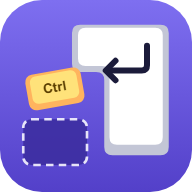
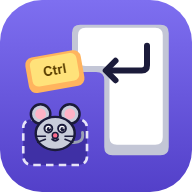
Rename to Мешканці клавіатури; residents shout the key name
A resident first exclaims its own phrase with its sound, then names
the key in the original (Backspace!, Ctrl!) in the bubble and aloud
via an English speech voice with a per-character timbre. The folder,
storage keys and cache are renamed to keyboard-residents-kids, and
the icon gets a mouse peeking out of the empty slot.

Changed region(s): [[0.125, 0.25, 0.4375, 0.8125]]

diff --git a/index.html b/index.html
@@ -3,7 +3,7 @@
 <head>
 <meta charset="UTF-8">
 <meta name="viewport" content="width=device-width, initial-scale=1.0">
-<title>Клавіші на місця · Інформатика в 131-й</title>
+<title>Мешканці клавіатури · Інформатика в 131-й</title>
 <link href="fonts/fonts.css" rel="stylesheet">   <!-- локальні шрифти: гра працює без інтернету -->
 <link rel="manifest" href="manifest.webmanifest">   <!-- гру можна встановити як програму -->
 <link rel="icon" type="image/png" href="icons/icon-192.png">
@@ -184,6 +184,9 @@
   @keyframes glow{from{filter:drop-shadow(0 0 2px #FFF3B0);} to{filter:drop-shadow(0 0 12px #FFD84D);}}
   .say{position:absolute; left:50%; bottom:100%; margin-bottom:6px; transform:translateX(calc(-50% + var(--sh, 0px))); background:#fff; border:2px solid #1B1B3A; border-radius:12px; padding:1px 10px;
     font-family:'Baloo 2',sans-serif; font-weight:700; font-size:15px; line-height:1.35; white-space:nowrap; color:#1B1B3A; box-shadow:0 3px 0 rgba(27,27,58,.15); opacity:0;}
+  .say .en{display:none; font-weight:800; font-size:21px; line-height:1.2; color:#5340C9;}
+  .say.named .ph{display:none;}
+  .say.named .en{display:block; animation:beat .3s ease;}
   .say::after{content:''; position:absolute; left:50%; top:100%; margin-left:calc(-6px - var(--sh, 0px)); border:6px solid transparent; border-top-color:#1B1B3A;}
 
   /* ---------- Майстерня: скарбничка й теми клавіатури ---------- */
@@ -295,7 +298,7 @@
 
 <div class="topbar"><div class="topbar-inner">
   <a class="back-link" href="https://cyrilreyda.github.io/" data-ui>← Всі ігри</a>
-  <span class="game-title">Клавіші на місця</span>
+  <span class="game-title">Мешканці клавіатури</span>
   <button class="top-btn player-btn" id="playerBtn" type="button" title="Гравці на цьому комп'ютері" data-ui><span class="pb-ico" id="playerIco"></span><span class="long" id="playerName">Гравець</span></button>
   <a class="top-btn" href="guide/index.html" title="Інструкція для учнів і вчителів" data-ui>❓<span class="long"> Як грати</span></a>
   <button class="top-btn fs-btn" id="fsBtn" type="button" title="На весь екран (F11)" aria-label="На весь екран (F11)" data-ui hidden>
@@ -311,8 +314,8 @@
     <div class="intro">
       <span id="introKey"></span>
       <div>
-        <h1>Клавіші на місця</h1>
-        <p>Службові клавіші розгубилися! <span class="hl">Перетягни кожну</span> з лотка на її місце на клавіатурі. Пробіл і Enter упізнаєш за формою, а решту — за тим, що стоїть поруч. А під клавішами, поки їх не було, хтось оселився…</p>
+        <h1>Мешканці клавіатури</h1>
+        <p>Службові клавіші розгубилися, а на їхніх місцях оселилися мешканці! <span class="hl">Перетягни кожну клавішу</span> з лотка на її місце — і мешканець вистрибне й вигукне, як вона називається. Пробіл і Enter упізнаєш за формою, а решту — за тим, що стоїть поруч.</p>
       </div>
     </div>
     <h3 class="levels-title">Обери рівень</h3>
@@ -323,7 +326,7 @@
       <div class="g-row"><h4>Клавіатура</h4><div class="picks" id="themePicks"></div></div>
     </div>
     <div class="stickers-box">
-      <div class="garage-head"><h3>Мешканці клавіатури</h3><span class="next-goal" id="budCount"></span></div>
+      <div class="garage-head"><h3>Хто жив під клавішами</h3><span class="next-goal" id="budCount"></span></div>
       <div class="buds" id="buds"></div>
     </div>
     <div class="stickers-box">
@@ -423,7 +426,7 @@
 // у лотку більше клавіш водночас, коротша норма часу, менше дозволених помилок, підказка пізніше.
 // У встановленій грі (PWA) адреси не видно, тож вчитель перемикає режим ще й Ctrl+Alt+B — це запам'ятовується на пристрої.
 // ?boost в адресі діє лише на цей запуск: один комп'ютер може відкривати гру різним класам різними посиланнями
-const BOOST_KEY = 'key-places-kids-boost';
+const BOOST_KEY = 'keyboard-residents-kids-boost';
 let boostSaved = false;
 try{ boostSaved = localStorage.getItem(BOOST_KEY) === 'on'; }catch(e){}
 const BOOST = boostSaved || new URLSearchParams(location.search).has('boost');
@@ -473,6 +476,13 @@ const SERVICE = {
   down:  { name:'Стрілка вниз',   label:'↓',            what:'переносить курсор на рядок нижче' },
   left:  { name:'Стрілка вліво',  label:'←',            what:'переносить курсор на один знак ліворуч' },
   right: { name:'Стрілка вправо', label:'→',            what:'переносить курсор на один знак праворуч' },
+};
+
+// Назва клавіші в оригіналі: [як пишуть, як вимовити англійською]. Її вигукує мешканець, що вистрибує з-під клавіші
+const EN = {
+  esc:['Esc', 'Escape'], tab:['Tab'], caps:['Caps Lock'], shift:['Shift'], ctrl:['Ctrl', 'Control'], win:['Windows'], alt:['Alt'],
+  space:['Space'], menu:['Menu'], enter:['Enter'], bksp:['Backspace'], del:['Delete'], ins:['Insert'], home:['Home'], end:['End'],
+  pgup:['Page Up'], pgdn:['Page Down'], prt:['Print Screen'], up:['Arrow Up'], down:['Arrow Down'], left:['Arrow Left'], right:['Arrow Right'],
 };
 
 /* ================= Розкладка клавіатури ================= */
@@ -559,7 +569,7 @@ const STICKERS = [
   { id:'bank',   ico:'💰', name:'Повна скарбничка',   how:'Зібрати в скарбничку 600 балів',                                        count:p=>p.total, need:600 },
 ];
 const stickerProgress = st=>st.count && !store.stickers[st.id] ? Math.min(st.count(store) || 0, st.need) : 0;
-const STORE_KEY = BOOST ? 'key-places-kids-boost-v1' : 'key-places-kids-v1';
+const STORE_KEY = BOOST ? 'keyboard-residents-kids-boost-v1' : 'keyboard-residents-kids-v1';
 
 /* ================= Збереження ================= */
 // Гравці на цьому пристрої: { current, players:{ ім'я: профіль } }. У кожного свої рекорди, скарбничка, тема й наліпки.
@@ -583,7 +593,7 @@ function loadPlayer(name){
 /* ================= Звук ================= */
 // Звук увімкнено за замовчуванням. Учням перемикача не показуємо: вчитель вимикає звук адресою ?zvuk=tykho
 // (вмикає назад ?zvuk=klas) або Ctrl+Alt+Z — як у «Клавіатурних перегонах». Режим запам'ятовується на цьому пристрої
-const SOUND_KEY = 'key-places-kids-sound';
+const SOUND_KEY = 'keyboard-residents-kids-sound';
 let soundOn = true;
 try{ soundOn = localStorage.getItem(SOUND_KEY) !== 'off'; }catch(e){}
 function setSound(on){
@@ -677,6 +687,29 @@ const VOICE = {
   magic:  d=>sparkle(d),
 };
 
+// Мешканець вигукує назву клавіші англійською голосом, який є в системі (у Windows — без інтернету).
+// Тембр залежить від мешканця: [висота, швидкість] за полем voice. Немає англійського голосу — лише його звук із VOICE
+let enVoice = null;
+function pickVoice(){
+  try{
+    const list = speechSynthesis.getVoices().filter(v=>/^en([-_]|$)/i.test(v.lang));
+    enVoice = list.find(v=>v.localService && /US/i.test(v.lang)) || list.find(v=>v.localService) || list[0] || null;
+  }catch(e){}
+}
+if('speechSynthesis' in window){ pickVoice(); speechSynthesis.addEventListener?.('voiceschanged', pickVoice); }
+const TIMBRE = { squeak:[1.9, 1.15], chirp:[1.8, 1.15], buzz:[1.3, 1.1], croak:[.7, 1], meow:[1.5, 1], beep:[.4, .9], boo:[.6, .85],
+                 slow:[.8, .6], sneeze:[1.4, 1.1], roar:[.2, .85], bloop:[1.2, 1], magic:[1.6, .95] };
+function shout(text, voice){
+  if(!soundOn || !enVoice) return;
+  try{
+    speechSynthesis.cancel();   // попередній ще не договорив — нехай поступиться новому
+    const u = new SpeechSynthesisUtterance(text);
+    u.voice = enVoice; u.lang = enVoice.lang;
+    [u.pitch, u.rate] = TIMBRE[voice] || [1, 1];
+    speechSynthesis.speak(u);
+  }catch(e){}
+}
+
 /* ================= Допоміжне ================= */
 const $ = id=>document.getElementById(id);
 const fmtTime = s=>`${Math.floor(s / 60)}:${String(Math.floor(s % 60)).padStart(2, '0')}`;
@@ -769,11 +802,11 @@ function keyboardHTML({ full = true, empty = [], mini = false } = {}){
 }
 
 /* ================= Мешканці клавіатури ================= */
-// Під кожною порожньою клавішею хтось жив. Коли клавіша стає на місце, мешканець вистрибує з-під неї, щось каже й тікає.
-// say — що каже; voice — голос (VOICE); rare — рідкісний гість: світиться, з'являється з імовірністю RARE.
+// Під кожною порожньою клавішею хтось жив. Коли клавіша стає на місце, мешканець вистрибує з-під неї,
+// вигукує щось своє, потім називає клавішу англійською (EN) і тікає.
+// say — що вигукує спершу; voice — голос (VOICE); rare — рідкісний гість: світиться, з'являється з імовірністю RARE.
 // Малюнки — SVG 64×64, ноги внизу
 const RARE = .025;
-const SAY_ANY = ['Ой!', 'Моє місце!', 'Та йду вже, йду!', 'Хоп!', 'Звільняю!', 'Ого, клавіша!', 'Бувайте!'];   // іноді замість своєї фрази
 const BUDDIES = [
   { id:'mouse',    name:'Мишка',       say:'Пі-пі! Я ж тут жила!',        voice:'squeak' },
   { id:'bug',      name:'Жучок',       say:'Жжж! Переїжджаю!',            voice:'buzz' },
@@ -968,7 +1001,7 @@ $('themePicks').addEventListener('click', e=>{
 // Альбом мешканців: кого вже бачив — кольоровий, решта — тінь зі знаком питання
 function renderBuddies(){
   const met = BUDDIES.filter(b=>store.met[b.id]).length;
-  $('budCount').textContent = `${met} з ${BUDDIES.length} · кожна клавіша на місці виганяє когось із-під себе`;
+  $('budCount').textContent = `${met} з ${BUDDIES.length}`;
   $('buds').innerHTML = BUDDIES.map(b=>{
     const n = store.met[b.id] || 0;
     return `<span class="bud${n ? '' : ' no'}${b.rare ? ' rare' : ''}" data-bud="${b.id}">${buddySVG(b.id)}<span>${n ? b.name : b.rare ? '✨ ?' : '?'}</span>${n ? `<small>×${n}</small>` : ''}</span>`;
@@ -1305,13 +1338,21 @@ function nextBuddy(){
   }
   return G.lastBuddy = G.bag.shift();
 }
-// З-під клавіші вистрибує мешканець: з'являється, озирається, каже щось і зістрибує вбік з клавіатури.
+// З-під клавіші вистрибує мешканець: з'являється, вигукує своє (SAY_MS), називає клавішу (NAME_MS) і зістрибує вбік з клавіатури.
 // З-під Пробілу — ціла компанія з трьох
 function jumpOut(slot, k){
   const n = k.kind === 'space' ? 3 : 1, g = G;
-  for(let i = 0; i < n; i++) G.timers.push(setTimeout(()=>{ if(G === g) oneBuddy(slot, (i - (n - 1) / 2) * 1.9, i === 0); }, i * 140));
+  for(let i = 0; i < n; i++) G.timers.push(setTimeout(()=>{ if(G === g) oneBuddy(slot, k, (i - (n - 1) / 2) * 1.9, i === 0); }, i * 140));
 }
-function oneBuddy(slot, shiftU, talk){
+const SAY_MS = 1000, NAME_MS = 1000;   // скільки видно фразу мешканця й назву клавіші
+// Хмарка біля краю екрана зсувається всередину, а її хвостик і далі показує на мешканця
+function keepInside(sb){
+  sb.style.setProperty('--sh', '0px');
+  const br = sb.getBoundingClientRect(), edge = document.documentElement.clientWidth - 8;
+  const sh = br.left < 8 ? 8 - br.left : br.right > edge ? edge - br.right : 0;
+  sb.style.setProperty('--sh', sh + 'px');
+}
+function oneBuddy(slot, k, shiftU, talk){
   const b = nextBuddy();
   const first = !store.met[b.id];
   store.met[b.id] = (store.met[b.id] || 0) + 1;   // зберігаємо одразу: знайомство лишається, навіть якщо вийти посеред гри
@@ -1326,31 +1367,38 @@ function oneBuddy(slot, shiftU, talk){
   const el = document.createElement('div');
   el.className = 'buddy' + (b.rare ? ' rare' : '');
   el.style.cssText = `--bs:${size}px; left:${cx - size / 2}px; top:${cy - size}px`;
-  const say = !b.rare && Math.random() < .35 ? SAY_ANY[Math.floor(Math.random() * SAY_ANY.length)] : b.say;
-  el.innerHTML = (talk ? `<div class="say">${esc(say)}</div>` : '') + buddySVG(b.id);
+  const [en, spoken = en] = EN[k.kind];
+  el.innerHTML = (talk ? `<div class="say"><span class="ph">${esc(b.say)}</span><span class="en">${esc(en)}!</span></div>` : '') + buddySVG(b.id);
   play.appendChild(el);
-  // Хмарка біля краю екрана зсувається всередину, а її хвостик і далі показує на мешканця
   const sb = el.querySelector('.say');
-  if(sb){
-    const br = sb.getBoundingClientRect(), edge = document.documentElement.clientWidth - 8;
-    const sh = br.left < 8 ? 8 - br.left : br.right > edge ? edge - br.right : 0;
-    sb.style.setProperty('--sh', sh + 'px');
-  }
+  if(sb) keepInside(sb);
   const T =(x, y, rot = 0, sx = 1, sy = 1)=>`translate(${x}px, ${y}px) rotate(${rot}deg) scale(${sx}, ${sy})`;
   const anim = el.animate([
     { transform:T(0, size * .5, 0, .2, .2), opacity:0 },
-    { transform:T(0, -size * .35, 0, 1.08, .92), opacity:1, offset:.12 },
-    { transform:T(0, 0), offset:.2 },
-    { transform:T(0, 0, -7 * dir), offset:.36 },
-    { transform:T(0, 0, 7 * dir), offset:.5 },
-    { transform:T(0, 2, 0, 1.1, .85), offset:.58 },
-    { transform:T(dx * .55, -up, 18 * dir), offset:.75 },
+    { transform:T(0, -size * .35, 0, 1.08, .92), opacity:1, offset:.08 },
+    { transform:T(0, 0), offset:.13 },
+    { transform:T(0, 0, -7 * dir), offset:.25 },
+    { transform:T(0, 0, 7 * dir), offset:.37 },
+    { transform:T(0, -size * .12, 0, 1.05, .95), offset:.45 },   // підскакує, коли називає клавішу
+    { transform:T(0, 0, -4 * dir), offset:.55 },
+    { transform:T(0, 0), offset:.68 },
+    { transform:T(0, 2, 0, 1.1, .85), offset:.74 },
+    { transform:T(dx * .55, -up, 18 * dir), offset:.86 },
     { transform:T(dx, 150, 55 * dir), opacity:0 },
-  ], { duration:2100, easing:'ease-in-out', fill:'forwards' });
+  ], { duration:2900, easing:'ease-in-out', fill:'forwards' });
   anim.onfinish = ()=>el.remove();
-  el.querySelector('.say')?.animate([{ opacity:0 }, { opacity:1, offset:.12 }, { opacity:1, offset:.8 }, { opacity:0 }], { duration:1300, delay:200, fill:'forwards' });
+  sb?.animate([{ opacity:0 }, { opacity:1, offset:.08 }, { opacity:1, offset:.92 }, { opacity:0 }], { duration:SAY_MS + NAME_MS + 150, delay:220, fill:'forwards' });
   SFX.jump();
-  VOICE[b.voice](.25);
+  VOICE[b.voice](.22);   // спершу — його власний вигук
+  if(talk){
+    const g = G;
+    G.timers.push(setTimeout(()=>{
+      if(G !== g) return;
+      sb.classList.add('named');   // потім — назва клавіші
+      keepInside(sb);
+      shout(spoken + '!', b.voice);
+    }, 220 + SAY_MS));
+  }
   if(b.rare) sparkle(.5);
 }
 
@@ -1387,6 +1435,7 @@ function resume(){
 function stopGame(){
   if(!G) return;
   if(D){ D.ghost.remove(); endDrag(); }
+  try{ speechSynthesis.cancel(); }catch(e){}
   clearInterval(G.tick);
   G.timers.forEach(clearTimeout);
   G.phase = 'stopped';

diff --git a/guide/index.html b/guide/index.html
@@ -3,7 +3,7 @@
 <head>
 <meta charset="UTF-8">
 <meta name="viewport" content="width=device-width, initial-scale=1.0">
-<title>Як грати · Клавіші на місця</title>
+<title>Як грати · Мешканці клавіатури</title>
 <link href="../fonts/fonts.css" rel="stylesheet">   <!-- локальні шрифти: гра працює без інтернету -->
 <link rel="icon" type="image/png" href="../icons/icon-192.png">
 <style>
@@ -71,7 +71,7 @@
 <main class="container">
 
   <header class="hero">
-    <div class="eyebrow">Клавіші на місця · Інструкція</div>
+    <div class="eyebrow">Мешканці клавіатури · Інструкція</div>
     <h1>Як грати</h1>
     <p>Службові клавіші випали з клавіатури. Поверни кожну на її місце й дізнайся, що вона робить.</p>
   </header>
@@ -98,7 +98,7 @@
       <div>
         <h2>Дізнайся, що робить клавіша</h2>
         <p>Коли клавіша стає на місце, під клавіатурою з'являється, для чого вона: Backspace стирає знак ліворуч від курсора, Shift — для великих літер, Ctrl + C — копіювати.</p>
-        <p>А ще під кожною клавішею, поки її не було, хтось жив: мишка, жучок, котик, робот, привидик… Коли клавіша стає на місце, мешканець вистрибує з-під неї, щось каже й тікає. Зазвичай щоразу новий, а зовсім рідко — особливий гість, що світиться.</p>
+        <p>А ще під кожною клавішею, поки її не було, хтось жив: мишка, жучок, котик, робот, привидик… Коли клавіша стає на місце, мешканець вистрибує з-під неї, вигукує щось своє («Пі-пі!», «Мяу!»), а тоді називає клавішу англійською, так, як вона написана на клавіатурі: «Enter!», «Shift!», «Backspace!». Прислухайся, як вимовляють назву. Зазвичай мешканець щоразу новий, а зовсім рідко — особливий гість, що світиться.</p>
         <p>Якщо поставити клавішу не туди, вона повернеться в лоток. Після двох помилок з однією клавішею її місце почне блимати жовтим.</p>
         <p>Натисни справжню клавішу на своїй клавіатурі — така сама на екрані засвітиться, якщо вона вже на місці. А якщо вона ще в лотку, то здригнеться там.</p>
       </div>
@@ -116,7 +116,7 @@
       <div>
         <h2>Відкривай нові клавіатури</h2>
         <p>Бали з усіх ігор збираються в скарбничку. За них у «Майстерні» відкриваються нові клавіатури: чорна, м'ятна, рожева, ретро, морська, космічна, з різнокольоровою підсвіткою й золота.</p>
-        <p>У «Мешканцях клавіатури» видно всіх, з ким ти вже познайомився, а ті, кого ще не зустрів, — сірі тіні зі знаком питання.</p>
+        <p>У розділі «Хто жив під клавішами» видно всіх, з ким ти вже познайомився, а ті, кого ще не зустрів, — сірі тіні зі знаком питання.</p>
         <p>Нижче — наліпки за досягнення: клавіатура без помилок, усі стрілки з першої спроби, 12 різних службових клавіш, натиснутих на справжній клавіатурі. Клацни сіру наліпку — і дізнаєшся, як її отримати.</p>
       </div>
     </li>
@@ -153,6 +153,7 @@
         <li>або <span class="kbd">Ctrl</span> + <span class="kbd">Alt</span> + <span class="kbd">Z</span> у грі (повторне натискання вмикає назад).</li>
       </ul>
       <p>Режим запам'ятовується на цьому комп'ютері. Параметри поєднуються: <code>?boost&amp;zvuk=tykho</code>.</p>
+      <p>Назви клавіш мешканці вимовляють англійським голосом, який є в браузері. У Chrome з інтернетом він є завжди. Щоб голос був і без інтернету, на комп'ютері має бути англійський голос Windows: Параметри → Час і мова → Мовлення → Додати голоси → English (United States). Без нього назву видно лише в хмарці над мешканцем. Голос вимикається разом зі звуком.</p>
     </div>
 
     <div class="card">
@@ -161,7 +162,7 @@
     </div>
   </section>
 
-  <footer>Клавіші на місця · Інструкція · у стилі <a href="https://cikavo.me/labs/typing-race/">«Клавіатурних перегонів»</a> з Лабораторії</footer>
+  <footer>Мешканці клавіатури · Інструкція · у стилі <a href="https://cikavo.me/labs/typing-race/">«Клавіатурних перегонів»</a> з Лабораторії</footer>
 </main>
 
 <script>

diff --git a/sw.js b/sw.js
@@ -1,7 +1,7 @@
 // Офлайн-режим гри. Онлайн сторінки завжди беруться з мережі (і оновлюють збережену копію),
 // без інтернету — зі збереженої копії. Параметри адреси (?boost, ?zvuk=…) на копію не впливають.
 // Після зміни списку FILES збільшити номер у CACHE, щоб браузери забрали нову копію.
-const CACHE = 'key-places-kids-v2';
+const CACHE = 'keyboard-residents-kids-v1';
 const FILES = ['./', './index.html', './guide/', './guide/index.html', './fonts/fonts.css',
                './manifest.webmanifest', './icons/icon-192.png', './icons/icon-512.png'];
 const TIMEOUT = 5000;   // повільна мережа в класі — після 5 с беремо збережену копію
@@ -12,7 +12,7 @@ self.addEventListener('install', e=>{
 // Видаляємо лише старі версії цієї гри: усі ігри сайту cyrilreyda.github.io ділять одне сховище кешів.
 self.addEventListener('activate', e=>{
   e.waitUntil(caches.keys()
-    .then(keys=>Promise.all(keys.filter(k=>k.startsWith('key-places-kids-') && k !== CACHE).map(k=>caches.delete(k))))
+    .then(keys=>Promise.all(keys.filter(k=>k.startsWith('keyboard-residents-kids-') && k !== CACHE).map(k=>caches.delete(k))))
     .then(()=>self.clients.claim()));
 });
 self.addEventListener('fetch', e=>{

diff --git a/README.md b/README.md
@@ -1,8 +1,8 @@
-# Клавіші на місця
+# Мешканці клавіатури
 
-Тренажер службових клавіш для 2–7 класів: службові клавіші випали з клавіатури, і їх треба перетягнути з лотка збоку на свої місця. Пробіл і Enter упізнаються за формою, решта — за сусідами. Коли клавіша стає на місце, під клавіатурою видно, що вона робить. Заодно тренується перетягування мишею. Оформлення — як у [«Клавіатурних перегонах»](https://github.com/cyrilreyda/typing-race-kids), [«Гарячих клавішах»](https://github.com/cyrilreyda/hot-keys) і [«Двічі клац!»](https://github.com/cyrilreyda/double-click-kids).
+Тренажер службових клавіш для 2–7 класів: службові клавіші випали з клавіатури, а на їхніх місцях оселилися мешканці. Клавіші треба перетягнути з лотка збоку на свої місця. Пробіл і Enter упізнаються за формою, решта — за сусідами. Коли клавіша стає на місце, з-під неї вистрибує мешканець і вигукує її назву англійською, а під клавіатурою видно, що вона робить. Заодно тренується перетягування мишею. Оформлення — як у [«Клавіатурних перегонах»](https://github.com/cyrilreyda/typing-race-kids), [«Гарячих клавішах»](https://github.com/cyrilreyda/hot-keys) і [«Двічі клац!»](https://github.com/cyrilreyda/double-click-kids).
 
-Грати: https://cyrilreyda.github.io/key-places-kids/
+Грати: https://cyrilreyda.github.io/keyboard-residents-kids/
 
 На сайті гра відкривається кодом уроку від вчителя, спільним для всіх ігор каталогу: див. [«Ігри відкриваються на уроці»](https://github.com/cyrilreyda/cyrilreyda.github.io#ігри-відкриваються-на-уроці). Гра з архіву чи папки замка не має.
 
@@ -25,12 +25,12 @@
   - Чуже порожнє місце: помилка, клавіша повертається в лоток, місце червоніє, над ним «Не сюди!» або, якщо форма інша, «Не влазить!».
   - Повз порожні місця: клавіша просто повертається в лоток, без помилки.
   - Клацання без перетягування: гра називає клавішу.
-- Мешканці: коли клавіша стає на місце, з-під неї вистрибує мешканець, ніби жив там, поки клавіші не було. Він з'являється, озирається, каже свою фразу (а іноді загальну: «Ой!», «Моє місце!»), подає голос і зістрибує вбік з клавіатури, приблизно за 2 с. З-під Пробілу вистрибують троє. Звичайних мешканців 21, і гра спершу показує тих, кого гравець ще не бачив, потім решту впереміш, без повторів поспіль. З імовірністю 2,5% замість звичайного вистрибує рідкісний гість, що світиться: динозаврик, єдиноріг чи дракончик. Знайомства зберігаються одразу, навіть якщо вийти посеред гри. Мешканці — `BUDDIES` (малюнки — `DRAWB`, голоси — `VOICE`), імовірність рідкісного — `RARE`.
+- Мешканці: коли клавіша стає на місце, з-під неї вистрибує мешканець, ніби жив там, поки клавіші не було. Він з'являється, озирається й вигукує своє зі своїм звуком («Пі-пі! Я ж тут жила!», «Мяу! Тут було так тепло…»), потім, підскочивши, називає клавішу в оригіналі («Backspace!», «Ctrl!», «Arrow Up!») і зістрибує вбік з клавіатури, приблизно за 3 с. Назву клавіші також вимовляє англійський голос, тембр залежить від мешканця (мишка пищить, монстрик гарчить); Ctrl і Esc вимовляються повністю: Control, Escape. Голос береться з браузера: у Chrome з інтернетом це Google US English, без інтернету — англійський голос Windows, якщо його встановлено (Параметри → Час і мова → Мовлення → Додати голоси → English (United States)). Якщо англійського голосу немає, назва лише написана в хмарці. Голос вимикається разом зі звуком. З-під Пробілу вистрибують троє, говорить перший. Звичайних мешканців 21, і гра спершу показує тих, кого гравець ще не бачив, потім решту впереміш, без повторів поспіль. З імовірністю 2,5% замість звичайного вистрибує рідкісний гість, що світиться: динозаврик, єдиноріг чи дракончик. Знайомства зберігаються одразу, навіть якщо вийти посеред гри. Мешканці — `BUDDIES` (малюнки — `DRAWB`, звуки — `VOICE`, тембр голосу — `TIMBRE`), назви клавіш в оригіналі — `EN`, імовірність рідкісного — `RARE`, скільки видно фразу й назву — `SAY_MS`, `NAME_MS`.
 - Пара Ctrl, пара Alt і пара Windows однакові: кожна підходить на будь-яке з двох місць. Shift ліворуч коротший, ніж праворуч, і на чуже місце не стає.
 - Після 2 помилок з однією клавішею (з `?boost` — після 3) її місце блимає жовтим, доки клавішу не поставлять.
 - Справжня клавіатура: натиснута клавіша світиться на екрані, якщо вона вже на місці; якщо ще в лотку — здригається там. Порожні місця на натискання не реагують, щоб не підказувати. Вогник на Caps Lock показує, чи ввімкнено справжній Caps Lock. Під час гри клавіші не роблять у браузері нічого свого (Tab, Пробіл, стрілки, F5), крім F11 і F12.
 - Бали: 2 за клавішу з першої спроби, 1 — не з першої; +5 за клавіатуру без жодної помилки, +3 за норму часу. Гра на «Легко» дає 9–26 балів, на «Середньо» — 17–42, на «Важко» — 26–60.
-- Програти не можна. Зірки: перша — за зібрану клавіатуру, друга — якщо помилок не більше дозволеного, третя — якщо вклався в норму часу. Рекорд — більше балів, а за рівних — менше часу. Рекорди зберігаються в браузері окремо для кожного гравця (ключ `key-places-kids-v1` у `localStorage`).
+- Програти не можна. Зірки: перша — за зібрану клавіатуру, друга — якщо помилок не більше дозволеного, третя — якщо вклався в норму часу. Рекорд — більше балів, а за рівних — менше часу. Рекорди зберігаються в браузері окремо для кожного гравця (ключ `keyboard-residents-kids-v1` у `localStorage`).
 - На екрані результату для вчителя: час і норма, скільки клавіш з першої спроби, скільки помилок, які клавіші плутав найчастіше («Alt → Ctrl» — Alt клали на місце Ctrl), скільки разів спрацювала підказка, скільки різних службових клавіш учень натискав на справжній клавіатурі.
 - Пауза — кнопка ⏸ (Пробіл тут — клавіша гри, а не пауза). Гра стає на паузу сама, коли вікно втрачає фокус, наприклад від клавіші Windows.
 - Кнопка зі стрілками поряд з «Як грати» відкриває гру на весь екран. Те саме робить F11.
@@ -57,7 +57,7 @@
 
 Рівні складності відкриті від початку, щоб учитель міг одразу дати учневі потрібний. Пороги — поле `at` у `THEMES`.
 
-## Мешканці клавіатури
+## Хто жив під клавішами
 
 На головній під «Майстернею» — альбом мешканців: кого вже бачив, кольоровий, з кількістю зустрічей; решта — тіні зі знаком питання. Клацання по мешканцю показує його фразу. Після гри видно нових знайомих.
 
@@ -85,7 +85,7 @@
 
 `?boost` у кінці адреси діє лише на цей запуск. `Ctrl + Alt + B` у грі перемикає режим і запам'ятовує його на цьому комп'ютері (для встановленої гри, де адреси не видно).
 
-У цьому режимі на клавішах самі значки: ⇧ (Shift), ↵ (Enter), ⟵ (Backspace), ⇥ (Tab), Del, Ins, PgUp, PgDn. У лотку на одну клавішу більше, норма часу 0:40 / 1:15 / 2:00, помилок для третьої зірки — до 1 / 2 / 3, місце блимає після третьої помилки. Рекорди зберігаються окремо (ключ `key-places-kids-boost-v1`). Під клавіатурою видно «Налаштування вчителя: рівні для 5–7 класів».
+У цьому режимі на клавішах самі значки: ⇧ (Shift), ↵ (Enter), ⟵ (Backspace), ⇥ (Tab), Del, Ins, PgUp, PgDn. У лотку на одну клавішу більше, норма часу 0:40 / 1:15 / 2:00, помилок для третьої зірки — до 1 / 2 / 3, місце блимає після третьої помилки. Рекорди зберігаються окремо (ключ `keyboard-residents-kids-boost-v1`). Під клавіатурою видно «Налаштування вчителя: рівні для 5–7 класів».
 
 ## Звук
 
@@ -94,7 +94,7 @@
 ## Без інтернету
 
 1. З сайту: один раз відкрити гру з інтернетом у Chrome, далі вона відкривається за тією самою адресою без мережі. Гру можна встановити як програму.
-2. З папки: завантажити архів [key-places-kids-main.zip](https://github.com/cyrilreyda/key-places-kids/archive/refs/heads/main.zip), розпакувати й відкрити `index.html` у Chrome.
+2. З папки: завантажити архів [keyboard-residents-kids-main.zip](https://github.com/cyrilreyda/keyboard-residents-kids/archive/refs/heads/main.zip), розпакувати й відкрити `index.html` у Chrome.
 
 <details><summary>Як це влаштовано</summary>
 
